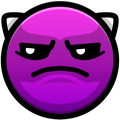
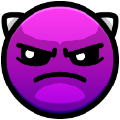
1.8.4

diff --git a/src/ui/MoreDFSprite.cpp b/src/ui/MoreDFSprite.cpp
@@ -7,7 +7,7 @@ bool MoreDFSprite::init() {
     return true;
 } 
 
-MoreDFSprite* MoreDFSprite::createWithStarCount(int starCount, bool smallSpr) {
+MoreDFSprite* MoreDFSprite::createWithStarCount(int starCount, bool smallSpr, int epic) {
     auto ret = new MoreDFSprite();
 
     std::string extraStuff = "";
@@ -16,9 +16,19 @@ MoreDFSprite* MoreDFSprite::createWithStarCount(int starCount, bool smallSpr) {
         extraStuff = "Small";
     }
 
-    if (Mod::get()->getSettingValue<bool>("legacy-difficulties")) {
+    if (Mod::get()->getSettingValue<bool>("legacy-difficulties") && !Mod::get()->getSettingValue<bool>("godlike-faces")) {
         std::string extraStuffPre = extraStuff;
         extraStuff = fmt::format("{}_Legacy", extraStuffPre);
+    }
+
+    if (!Mod::get()->getSettingValue<bool>("legacy-difficulties") && Mod::get()->getSettingValue<bool>("godlike-faces")) {
+        if (epic == 2) {
+            std::string extraStuffPre = extraStuff;
+            extraStuff = fmt::format("{}_Legendary", extraStuffPre);
+        } else if (epic == 3) {
+            std::string extraStuffPre = extraStuff;
+            extraStuff = fmt::format("{}_Mythic", extraStuffPre);
+        }
     }
 
     std::string spriteName = fmt::format("uproxide.more_difficulties/MD_Difficulty0{}{}.png", starCount, extraStuff);
@@ -30,6 +40,7 @@ MoreDFSprite* MoreDFSprite::createWithStarCount(int starCount, bool smallSpr) {
     if ((starCount == 4 && !SaveThings::casual) || (starCount == 7 && !SaveThings::tough) || (starCount == 9 && !SaveThings::cruel)) {
         return nullptr;
     }
+    
 
     if (ret && ret->initWithSpriteFrameName(spriteName.c_str())) {
         ret->autorelease();

diff --git a/src/ui/ToggleDifficultiesPopup.hpp b/src/ui/ToggleDifficultiesPopup.hpp
@@ -12,9 +12,12 @@
 using namespace geode::prelude;
 
 
-class ToggleDifficultiesPopup : public Popup<> {
+class ToggleDifficultiesPopup : public Popup {
 public:
-    bool setup() {
+    bool init() {
+        if (!Popup::init(400, 130, "geode.loader/GE_square01.png"))
+            return false;
+
         log::info("hai");
 
         auto bg = cocos2d::extension::CCScale9Sprite::create("square02_small.png");
@@ -109,12 +112,12 @@ public:
     }
 
     static ToggleDifficultiesPopup* create() {
-        auto ret = new ToggleDifficultiesPopup();
-        if (ret && ret->initAnchored(400, 130, "geode.loader/GE_square01.png")) {
-            ret->autorelease();
-            return ret;
+        auto popup = new ToggleDifficultiesPopup;
+        if (popup->init()) {
+            popup->autorelease();
+            return popup;
         }
-        CC_SAFE_DELETE(ret);
+        delete popup;
         return nullptr;
     }
 };

diff --git a/src/hooks/LevelInfoLayer.cpp b/src/hooks/LevelInfoLayer.cpp
@@ -22,8 +22,8 @@ class $modify(LevelInfoLayer) {
 		cocos2d::CCPoint difficultyPos = m_difficultySprite->getPosition() + CCPoint { .0f, .0f };
 		int zOrder = m_difficultySprite->getZOrder();
 
-        MoreDFSprite* mdSpr = MoreDFSprite::createWithStarCount({(starCount != 0) ? starCount : suggestedStarCount}, false);
-		CCSprite* mdGlow = CCSprite::createWithSpriteFrameName("MD_LegendaryGlow.png"_spr);
+        MoreDFSprite* mdSpr = MoreDFSprite::createWithStarCount({(starCount != 0) ? starCount : suggestedStarCount}, false, p0->m_isEpic);
+		//CCSprite* mdGlow = CCSprite::createWithSpriteFrameName("MD_LegendaryGlow.png"_spr);
 
 		if (mdSpr && ((starCount != 0) ? (starCount == 4 || starCount == 7 || starCount == 9) : (suggestedStarCount == 4 || suggestedStarCount == 7 || suggestedStarCount == 9))) {
 			mdSpr->setZOrder(zOrder);

diff --git a/src/hooks/LevelCell.cpp b/src/hooks/LevelCell.cpp
@@ -24,8 +24,8 @@ class $modify(LevelCell) {
 			int difficulty = p0->getAverageDifficulty();
 			bool isDemon = p0->m_demon.value() == 1;
 
-        	MoreDFSprite* mdSpr = MoreDFSprite::createWithStarCount({(starCount != 0) ? starCount : suggestedStarCount}, false);
-			CCSprite* mdGlow = CCSprite::createWithSpriteFrameName("MD_LegendaryGlow.png"_spr);
+        	MoreDFSprite* mdSpr = MoreDFSprite::createWithStarCount({(starCount != 0) ? starCount : suggestedStarCount}, false, p0->m_isEpic);
+			//CCSprite* mdGlow = CCSprite::createWithSpriteFrameName("MD_LegendaryGlow.png"_spr);
 			// mdGlow->setBlendFunc(ccBlendFunc::)
 
 			if (mdSpr && ((starCount != 0) ? (starCount == 4 || starCount == 7 || starCount == 9) : (suggestedStarCount == 4 || suggestedStarCount == 7 || suggestedStarCount == 9))) {

diff --git a/src/ui/MoreDFSprite.hpp b/src/ui/MoreDFSprite.hpp
@@ -5,7 +5,7 @@ using namespace geode::prelude;
 class MoreDFSprite : public CCSprite {
     public:
         bool init();
-        static MoreDFSprite* createWithStarCount(int starCount, bool smallSpr);
+        static MoreDFSprite* createWithStarCount(int starCount, bool smallSpr, int epic);
         static MoreDFSprite* createWithName(std::string name, bool smallSpr);
         static MoreDFSprite* createWithLevelID(int levelID, std::string name, bool smallSpr);
         static MoreDFSprite* createWithSpriteFrameName(const char* name);

diff --git a/src/hooks/ExtendedLevelInfo.cpp b/src/hooks/ExtendedLevelInfo.cpp
@@ -1,4 +1,4 @@
-#include <Geode/Geode.hpp>
+/*#include <Geode/Geode.hpp>
 #include <Geode/modify/FLAlertLayer.hpp>
 #include <Geode/modify/InfoLayer.hpp>
 
@@ -49,4 +49,4 @@ class $modify (ExtendedLevelInfoExt, FLAlertLayer) {
             }
         }
     }
-};
+};*/

diff --git a/changelog.md b/changelog.md
@@ -1,3 +1,8 @@
+# 1.8.4
+ * Geode 5.0.0-beta.1 / Geometry Dash 2.208 Support
+ * Godlike Faces! Enable in settings.
+ * Refreshed Faces.
+
 # 1.8.3
  * Remade Uproxide Difficulty textures.
   - Miss the old ones? Download Legacy Uproxide Difficulties from [Texture Workshop](mod:uproxide.textures)!
